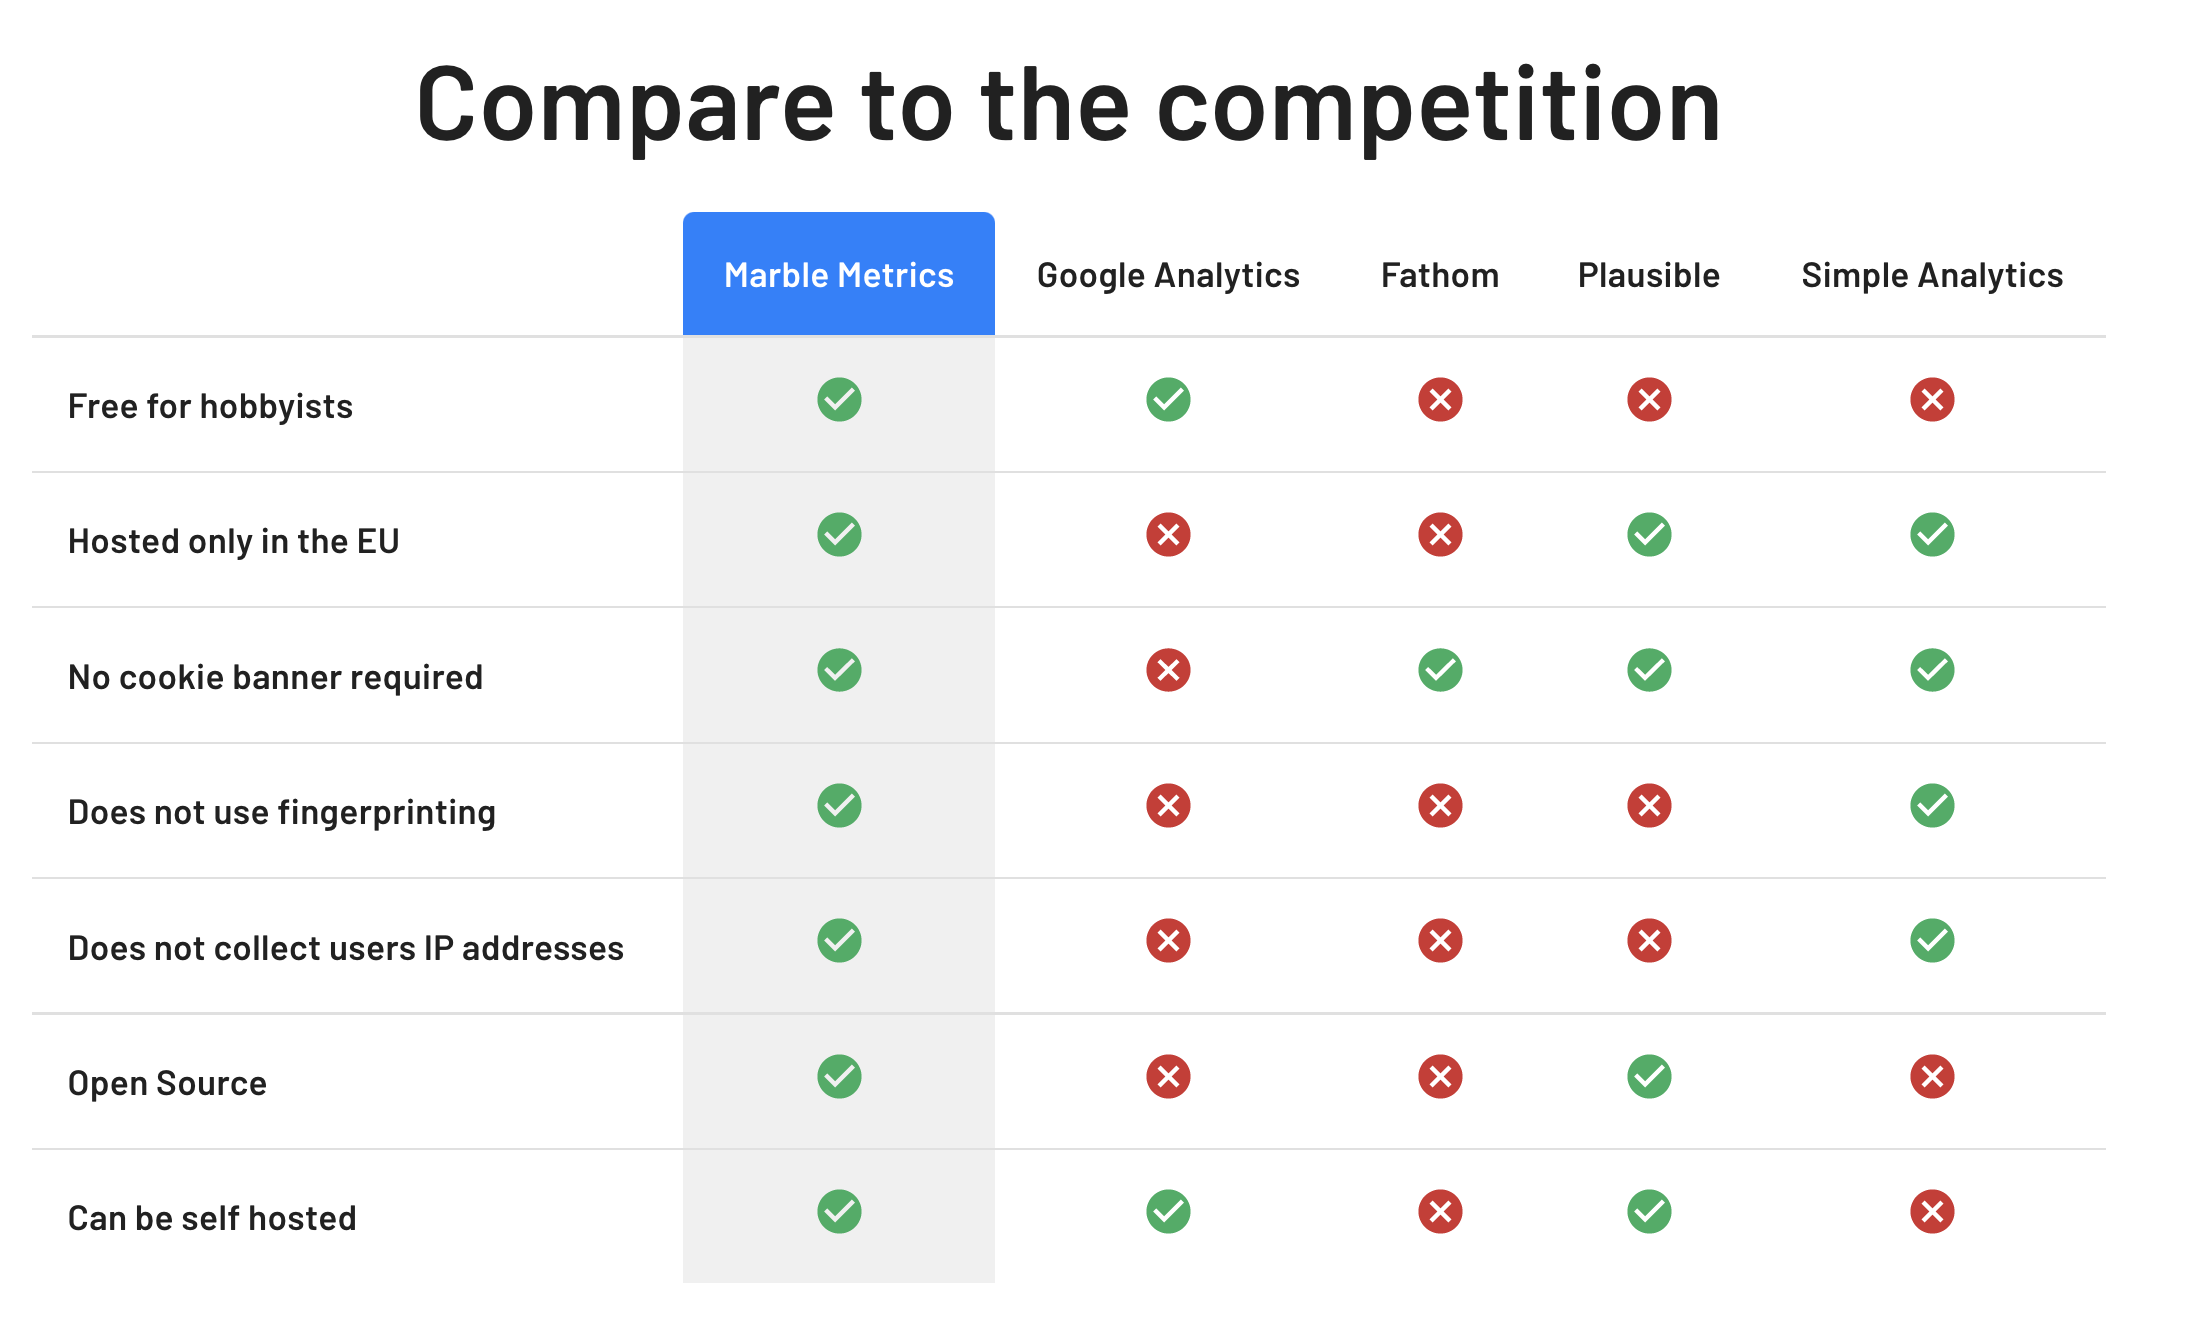
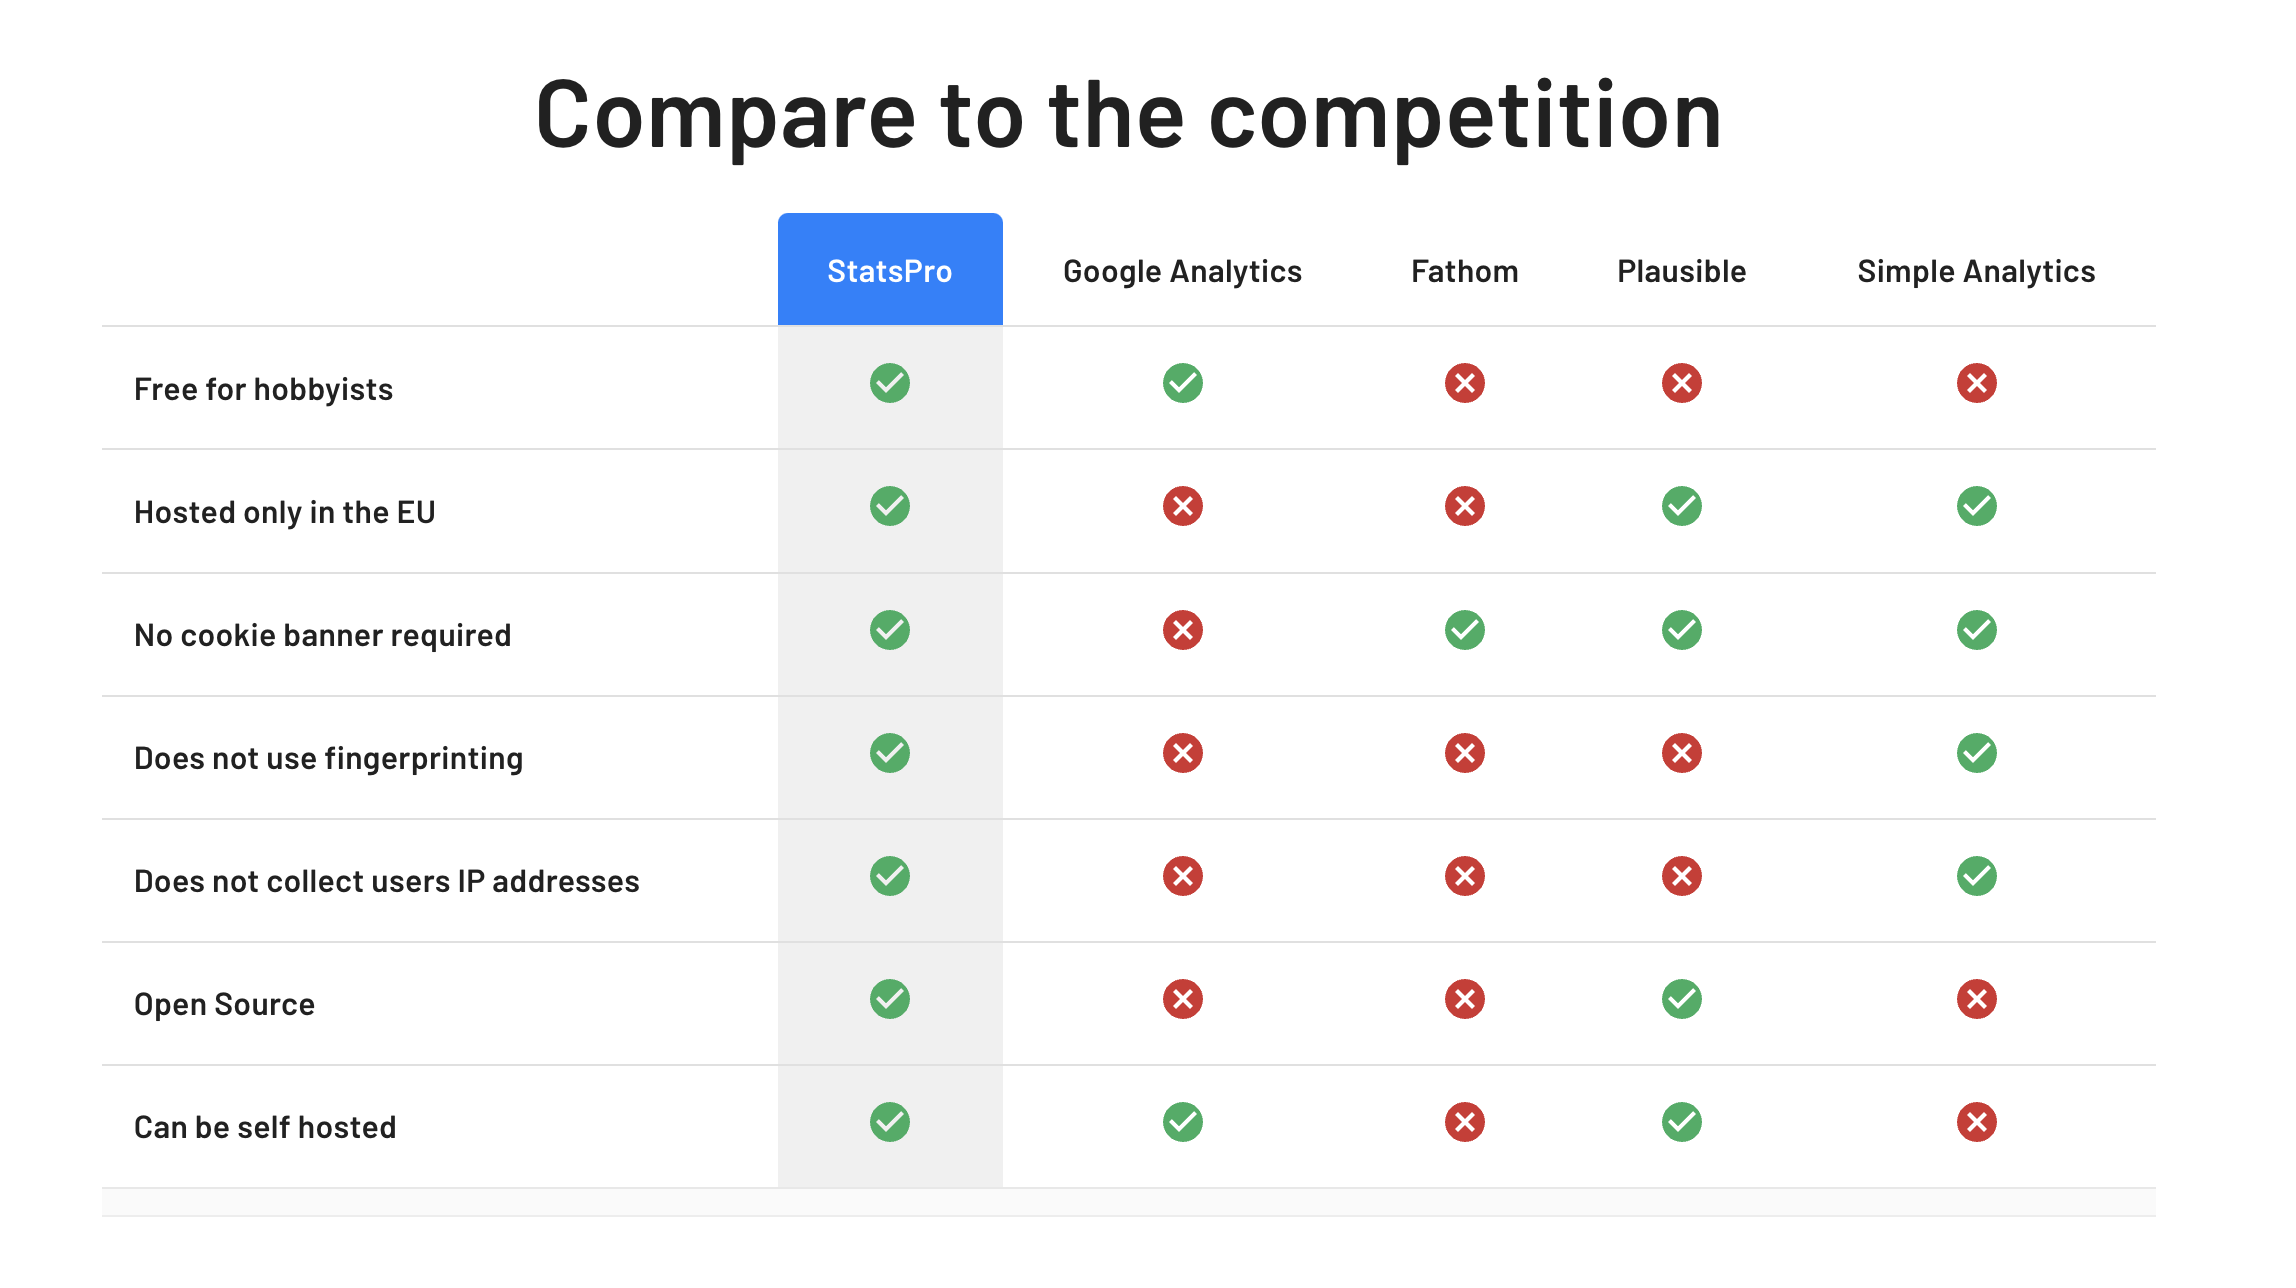
Rename readme to StatsPro from Marble Metrics

diff --git a/src/resources/js/Pages/Home.jsx b/src/resources/js/Pages/Home.jsx
@@ -167,7 +167,7 @@ export default function Home(props) {
                                     <TableHead>
                                         <TableRow>
                                             <TableCell align="center"/>
-                                            <TableCell align="center" className="bright-blue-background" style={{color: '#fff', borderTopLeftRadius: '5px', borderTopRightRadius: '5px', fontWeight: 'bold', fontSize: '1em'}}>Marble Metrics</TableCell>
+                                            <TableCell align="center" className="bright-blue-background" style={{color: '#fff', borderTopLeftRadius: '5px', borderTopRightRadius: '5px', fontWeight: 'bold', fontSize: '1em'}}>StatsPro</TableCell>
                                             <TableCell align="center" style={{fontWeight: 'bold', fontSize: '1em'}}>Google Analytics</TableCell>
                                             <TableCell align="center" style={{fontWeight: 'bold', fontSize: '1em'}}>Fathom</TableCell>
                                             <TableCell align="center" style={{fontWeight: 'bold', fontSize: '1em'}}>Plausible</TableCell>

diff --git a/README.md b/README.md
@@ -1,38 +1,39 @@
 <p align="center">
-    <a href="https://marblemetrics.com/">
-        <img src="https://raw.githubusercontent.com/MarbleMetrics/MarbleMetrics/master/src/public/images/logo.svg" width="140px" />
+    <a href="https://StatsPro.io/">
+        <img src="https://raw.githubusercontent.com/StatsProIO/StatsPro/master/src/public/images/logo.png" width="140px" />
     </a>
-    <h1>Stats Pro</h1>
-    Stats Pro is a open-source, easily deployable, and privacy friendly alternative to Google Analytics.
 </p>
-<br />
+
+<h1 align="center">StatsPro</h1>
+<p align="center">StatsPro is a open-source, easily deployable, and privacy friendly alternative to Google Analytics.</p>
+
 <p align="center">
   <a href="#about-the-project">About The Project</a> •
-  <a href="#why-choose-stats-pro">Why Choose Stats Pro</a> •
+  <a href="#why-choose-stats-pro">Why Choose StatsPro</a> •
   <a href="#architecture">Architecture</a> •
   <a href="#running-locally">Running Locally</a> •
   <a href="#running-in-the-cloud">Running In The Cloud</a> •
   <a href="#license">License</a>
 </p>  
 
+<br />
 
-
-[![Build Staging](https://github.com/StatsProIO/StatsPro/actions/workflows/build-staging.yml/badge.svg)](https://github.com/MarbleMetrics/MarbleMetrics/actions/workflows/build-staging.yml)
-[![Build Prod](https://github.com/StatsProIO/StatsPro/actions/workflows/build-prod.yml/badge.svg)](https://github.com/MarbleMetrics/MarbleMetrics/actions/workflows/build-prod.yml)
+[![Build Staging](https://github.com/StatsProIO/StatsPro/actions/workflows/build-staging.yml/badge.svg)](https://github.com/StatsProIO/StatsPro/actions/workflows/build-staging.yml)
+[![Build Prod](https://github.com/StatsProIO/StatsPro/actions/workflows/build-prod.yml/badge.svg)](https://github.com/StatsProIO/StatsPro/actions/workflows/build-prod.yml)
 ![](https://badgen.net/github/commits/StatsProIO/StatsPro)
 ![](https://badgen.net/github/license/StatsProIO/StatsPro)
 
 ### About The Project
-[StatsPro](https://statspro.io) is a open-source, easily deployable, and privacy friendly web analytics software. Marble Metrics has many of the features that you would expect from other analytics software without invading your users privacy and without selling data to 3rd parties for advertisements. 
+[StatsPro](https://statspro.io) is a open-source, easily deployable, and privacy friendly web analytics software. StatsPro has many of the features that you would expect from other analytics software without invading your users privacy and without selling data to 3rd parties for advertisements. 
 
 **StatsPro does not use cookies and is fully compliant with GDPR, PECR, CCPA.**
 
-You can run Marble Metrics on your own servers (by following the instructions below) or have us host it for you. We only host on European servers owned by European companies to ensure your analytics is compliant with the law.  
+You can run StatsPro on your own servers (by following the instructions below) or have us host it for you. We only host on European servers owned by European companies to ensure your analytics is compliant with the law.  
 
-### Why Choose Stats Pro
+### Why Choose StatsPro
 ![](src/public/images/readme/comparison.png)  
 
-Learn more about why you should choose Marble Metrics over other analytics providers on our [website here](https://marblemetrics.com).
+Learn more about why you should choose StatsPro over other analytics providers on our [website here](https://statspro.io).
 
 ### Architecture
 
@@ -48,7 +49,7 @@ One of the most important parts of the backend is The Collector. The Collector r
 The frontend of the application is written in React, allowing a clean separation between the backend and frontend application.
 
 ### Running Locally
-The steps below outline how you can run Marble Metrics on your own machine. If you don't want to deal with running Marble Metrics on your own, [we can handle it for you](https://marblemetrics.com).
+The steps below outline how you can run StatsPro on your own machine. If you don't want to deal with running StatsPro on your own, [we can handle it for you](https://statspro.io).
 
 These steps have been tested on Mac OS X 12.5.
 
@@ -59,11 +60,11 @@ These steps have been tested on Mac OS X 12.5.
 * Basic understanding of Laravel.
 
 #### Steps
-1. Run this command to start containers to run nginx, the Marble Metics app, and Postgres
+1. Run this command to start containers to run nginx, the StatsPro app, and Postgres
     ```bash
     make rebuild-local
     ```
-2. Manually connect to the database with username `postgres` and password `postgres` create a `marble_metrics` database.
+2. Manually connect to the database with username `postgres` and password `postgres` create a `stats_pro` database.
 3. Now you'll need to SSH into the app container to install all Javascript and PHP dependencies and run our Vite server. This will compile and serve up our frontend resources.
     ```bash
     docker-compose exec app /bin/bash
@@ -72,7 +73,7 @@ These steps have been tested on Mac OS X 12.5.
     npm run dev
     ```
    
-4. Now you should be able to visit `localhost` to see Marble Metrics running.
+4. Now you should be able to visit `localhost` to see StatsPro running.
 5. Next, we'll run migrations on the database to get all the tables setup. While SSHed into the container, run
     ```bash
     php artisan migrate
@@ -85,9 +86,9 @@ These steps have been tested on Mac OS X 12.5.
       ```
 
 ### Running In The Cloud
-Marble Metrics is hosted on Stackhero, a European company which has servers in Europe. This guide assumes you will be running on Stackhero. Marble Metrics should run the same on other docker cloud providers but there may be some work to get it all configured. If you don't want to deal with running Marble Metrics on your own, [we can handle it for you](https://marblemetrics.com).
+StatsPro is hosted on Stackhero, a European company which has servers in Europe. This guide assumes you will be running on Stackhero. StatsPro should run the same on other docker cloud providers but there may be some work to get it all configured. If you don't want to deal with running StatsPro on your own, [we can handle it for you](https://statspro.io).
 
-Marble Metrics is deployed to Stackhero using Github Actions.
+StatsPro is deployed to Stackhero using Github Actions.
 
 1. Create a new Docker service within Stackhero. Keep the host, service ID, and certificates password handy as we'll be using them in a later step.
 
@@ -108,7 +109,7 @@ Marble Metrics is deployed to Stackhero using Github Actions.
     
     DB_HOST=<your postgres database host>
     DB_PORT=5432
-    DB_DATABASE=marble_metrics
+    DB_DATABASE=stats_pro
     DB_USERNAME=<your postgres username>
     DB_PASSWORD=<your postgres password>
    
@@ -126,9 +127,9 @@ Marble Metrics is deployed to Stackhero using Github Actions.
     `<your app key here>` should be a random base-64 encoded string of length 32
      
 3. Now go to Github Actions and run the Build Staging action.
-4. One the action has finished running, you should be able to see Marble Metrics running by visiting the docker host URL.         
+4. One the action has finished running, you should be able to see StatsPro running by visiting the docker host URL.         
 
 ### License
-Marble Metrics is open source under the GNU Affero General Public License Version 3 (AGPLv3).
+StatsPro is open source under the GNU Affero General Public License Version 3 (AGPLv3).
 
 [License](LICENSE.md)
